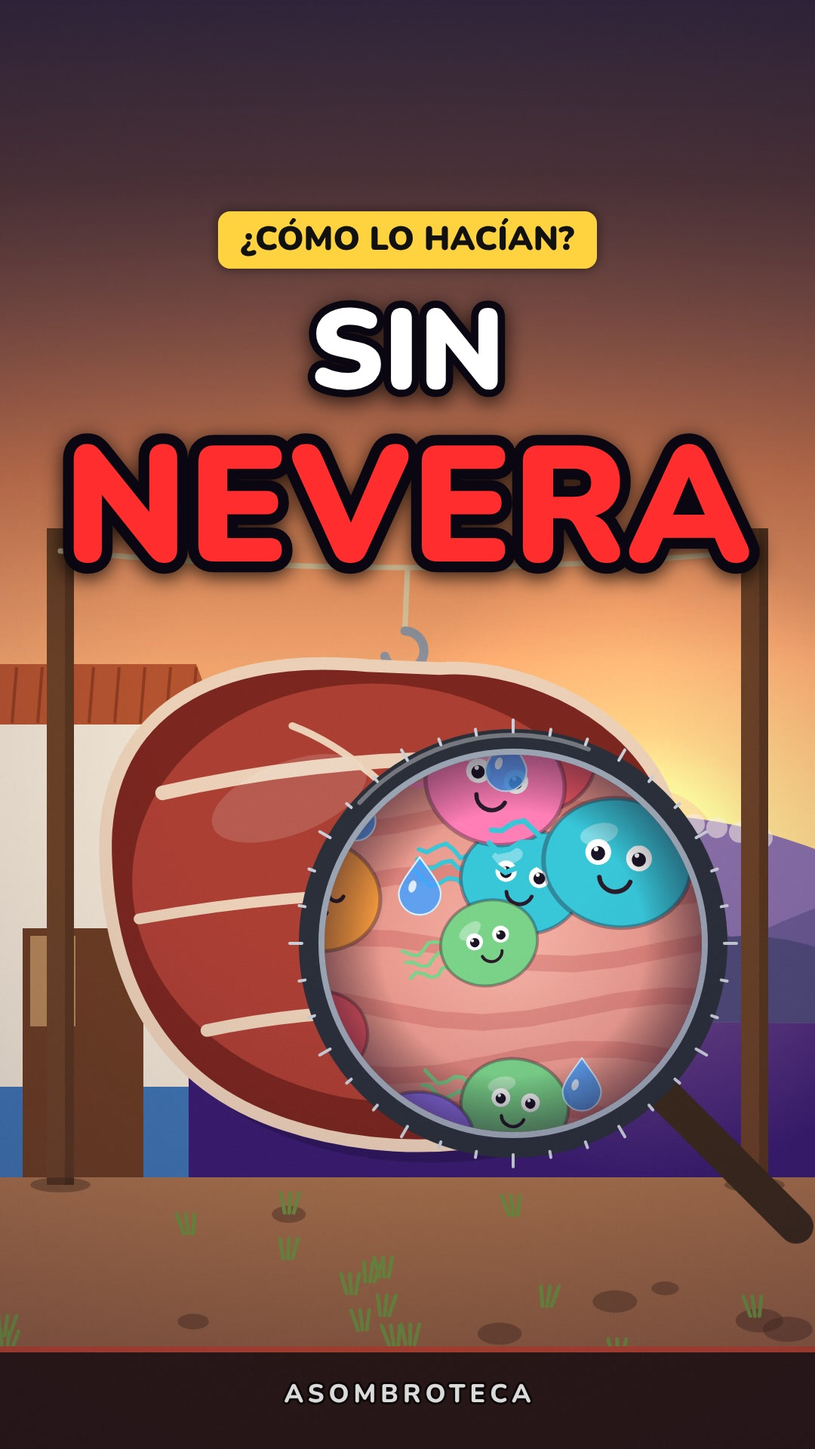
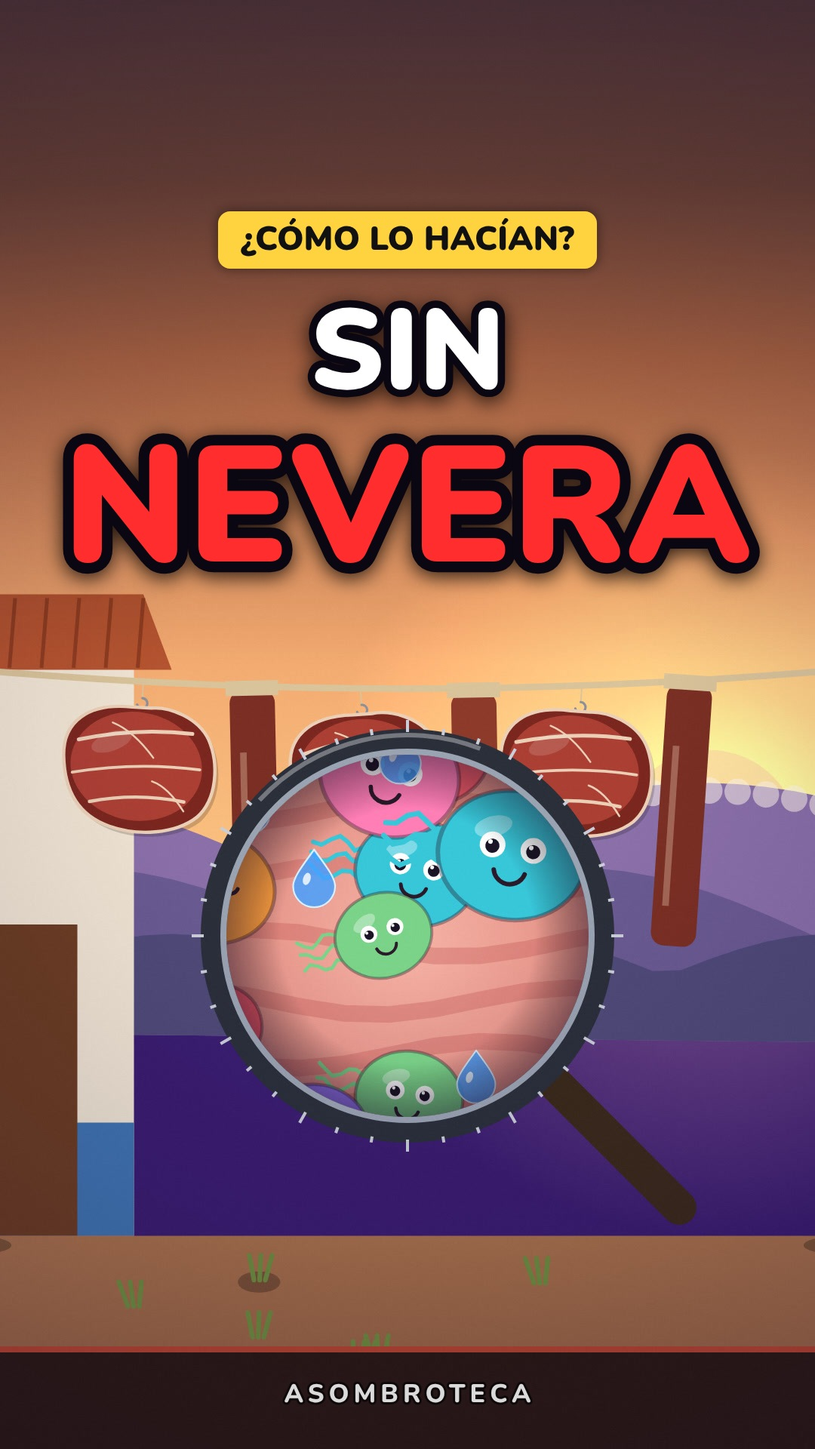
Plantilla v1.42: etiquetas suaves (-10 dB) y FX.clave para el «tin» en 3-4 momentos clave; regla en GUIA_ESTILOS. Conservar alimentos: carne colgada en pedazos y tiras, portada y hoja de prueba v2
Claude-Session: https://claude.ai/code/session_01KohciJ6VzRMYigYzWPEZPd

diff --git a/CONSERVAR_ALIMENTOS_PROYECTO/04_CODIGO/js/episodio.js b/CONSERVAR_ALIMENTOS_PROYECTO/04_CODIGO/js/episodio.js
@@ -159,14 +159,19 @@
  const capaHumo = (ctx, t, R, a) => { if (a <= 0) return; const Rg = RNG(55); ctx.save(); for (let i = 0; i < 70; i++) { const x = -R + Rg() * 2 * R, y0 = -R + Rg() * 2 * R, fall = ((t * 0.12 + Rg()) % 1), y = y0 + 60 * Math.sin(t + i), r = 10 + Rg() * 18; ctx.globalAlpha = a * (0.45 + 0.35 * Rg()); ctx.fillStyle = i % 2 ? '#8a6d55' : '#b39477'; ctx.beginPath(); ctx.arc(x + 20 * Math.sin(t * 0.8 + i), y + fall * 20, r, 0, TAU); ctx.fill(); } ctx.restore(); };
  // ---------- ÁCIDO (ondas amarillo-verdosas) ----------
  const acido = (ctx, t, x, y, a, R = 300) => { if (a <= 0) return; ctx.save(); for (let i = 0; i < 4; i++) { const ph = ((t * 0.7 + i / 4) % 1); ctx.globalAlpha = a * (1 - ph) * 0.8; ctx.strokeStyle = '#d8f25a'; ctx.lineWidth = 12; ctx.beginPath(); ctx.arc(x, y, 40 + R * ph, 0, TAU); ctx.stroke(); } ctx.restore(); };
+ // ---------- CARNE COLGADA EN LA CUERDA: pedazos medianos y tiras alternados, a tamaño creíble (v2). ry(x) = altura de la cuerda ----------
+ const CUERDA = { x0: 80, x1: 1000, y: 960, sag: 20 };
+ const ryC = (x) => { const u = (x - CUERDA.x0) / (CUERDA.x1 - CUERDA.x0); return CUERDA.y + 4 * CUERDA.sag * u * (1 - u); };
+ const PIEZAS = [[260, 'p'], [375, 't'], [490, 'p'], [610, 't'], [725, 'p'], [840, 't']];
+ const colgadas = (ctx, t, o = {}) => { const salta = o.salta ?? -1, seco = o.seco ?? 0.3; PIEZAS.forEach(([x, k], i) => { if (i === salta) return; const y = ryC(x), ang = 0.08 * Math.sin(t * 1.6 + i * 1.3) + 0.02 * Math.sin(t * 3.7 + i); if (k === 'p') carne(ctx, t, x, y, { s: 0.25, seco, ang }); else { ctx.save(); ctx.translate(x, y); ctx.rotate(ang); ctx.fillStyle = i % 4 === 1 ? '#7b2f24' : '#8e3a2b'; ctx.beginPath(); ctx.roundRect(-24, 4, 48, 300 + 25 * Math.sin(i * 2.3), 14); ctx.fill(); ctx.fillStyle = 'rgba(240,210,180,0.35)'; ctx.fillRect(-14, 70, 7, 170); ctx.fillStyle = '#d9c39a'; ctx.fillRect(-28, -6, 56, 16); ctx.restore(); } }); };
 
  // =====================================================================================================
  // ESCENAS (un plano por idea, ningún ángulo > 4 s; textos siempre encima de humo, destellos y efectos)
  // =====================================================================================================
  const B = [];
- const MC = [540, 1208];   // centro de la carne colgada en el patio
- const patio = (ctx, t, o = {}) => { cielo(ctx, t, { hz: 1300, sx: 860, sy: 1140 }); casa(ctx, t, -90, 250, 1560, { puerta: 110, top: 950 }); if (o.fogonLejos !== false) { fogon(ctx, t, 930, 1560, 0.32); humo(ctx, t, 930, 1480, { n: 8, h: 420, w: 60, r0: 14, r1: 50, a: 0.5 }); } suelo(ctx, t, 1560);
-  poste(ctx, 80, 700, 1570); poste(ctx, 1000, 700, 1570); cuerda(ctx, 80, 1000, 730, 22); if (o.carne !== false) carne(ctx, t, 540, 752, { s: o.s ?? 1.2, seco: o.seco ?? 0.3 }); };
+ const MC = [550, 1120];   // centro de la carne colgada en el patio
+ const patio = (ctx, t, o = {}) => { cielo(ctx, t, { hz: 1300, sx: 860, sy: 1140 }); casa(ctx, t, -90, 250, 1560, { puerta: 110, top: 950 }); if (o.fogonLejos !== false) { fogon(ctx, t, 900, 1560, 0.42); humo(ctx, t, 900, 1450, { n: 9, h: 520, w: 70, r0: 16, r1: 60, a: 0.55 }); } suelo(ctx, t, 1560);
+  poste(ctx, 80, 930, 1570); poste(ctx, 1000, 930, 1570); cuerda(ctx, CUERDA.x0, CUERDA.x1, CUERDA.y, CUERDA.sag); if (o.carne !== false) colgadas(ctx, t, { seco: o.seco ?? 0.3, salta: o.salta }); };
  const golpe = (k, t0, g = 1) => { k.play('thud', t0, { f: 50, gain: 0.9 * g }); k.noise(t0, { dur: 0.5, color: 'brown', filter: 'lowpass', f: [[0, 1800], [0.5, 160]], gain: 0.3 * g, a: 0.002 }); };
  const RAD = 470;   // radio del círculo del microscopio
  // bacterias repartidas (posiciones fijas por semilla) dentro de un círculo de radio R
@@ -177,10 +182,10 @@
 
  // ---------- 1 · GANCHO: el patio al atardecer, la carne grande colgada se mece; las bacterias se lanzan contra ella → en «NO» chocan y rebotan (destello, sacudida, golpe) → en «pudría» el grano de sal gigante cae a cámara ----------
  const HB = (() => { const Rg = RNG(21), out = []; for (let i = 0; i < 9; i++) { const a = (i / 9) * TAU + Rg() * 0.4; out.push({ a, r: 70 + Rg() * 30, sd: i, d0: 760 + Rg() * 200 }); } return out; })();
- const ganchoBacterias = (ctx, t, TE) => { for (const b of HB) { let d; if (t < TE) d = lerp(b.d0, 360, E.in(cl(t / TE))); else d = 360 + 520 * E.out(cl((t - TE) / 0.9)); const x = MC[0] + Math.cos(b.a) * d * 1.15, y = MC[1] + Math.sin(b.a) * d * 0.62, sp = t < TE ? 0 : (t - TE) * 9; bacteria(ctx, t, x, y, b.r, { seed: b.sd, ang: b.a + Math.PI + sp, susto: t > TE ? 1 : 0, mira: t < TE ? -Math.cos(b.a) : 0 }); } };
+ const ganchoBacterias = (ctx, t, TE) => { for (const b of HB) { let d; if (t < TE) d = lerp(b.d0, 360, E.in(cl(t / TE))); else d = 360 + 520 * E.out(cl((t - TE) / 0.9)); const x = MC[0] + Math.cos(b.a) * d * 1.1, y = MC[1] + Math.sin(b.a) * d * (Math.sin(b.a) < 0 ? 0.36 : 0.6), sp = t < TE ? 0 : (t - TE) * 9; bacteria(ctx, t, x, y, b.r, { seed: b.sd, ang: b.a + Math.PI + sp, susto: t > TE ? 1 : 0, mira: t < TE ? -Math.cos(b.a) : 0 }); } };
  B.push({ t0: 0, t1: S(2), in: { type: 'cut' }, draw(ctx, t) {
-  if (PORTADA) { patio(ctx, 1.2, { s: 1.2, fogonLejos: false }); const R = 250, cx = 680, cy = 1250; ctx.save(); ctx.strokeStyle = '#3a2a1a'; ctx.lineWidth = 46; ctx.lineCap = 'round'; ctx.beginPath(); ctx.moveTo(cx + R * 0.72, cy + R * 0.72); ctx.lineTo(cx + R * 1.5, cy + R * 1.5); ctx.stroke(); ctx.restore(); micro(ctx, 2.0, cx, cy, R, (c) => { nadan(c, 2.0, G1, 70); gotas(c, 2.0, GOT, 26); }); ctx.fillStyle = '#2a1a12'; ctx.fillRect(0, 1790, W, HH); ctx.fillStyle = '#b8452f'; ctx.fillRect(0, 1784, W, 8); return; }
-  const TE = Tk.no, TP = Tk.pudria, sh = sacude(t, [[TE, 1.3], [TP, 0.8]], 50), cam = camK(t, [[0, 540, 1100, 1.0], [S(2), 540, 1120, 1.07]]);
+  if (PORTADA) { ctx.save(); zoomP(ctx, [540, 1010, 1.25]); patio(ctx, 1.2, { fogonLejos: false }); ctx.restore(); const R = 240, cx = 540, cy = 1240; ctx.save(); ctx.strokeStyle = '#3a2a1a'; ctx.lineWidth = 46; ctx.lineCap = 'round'; ctx.beginPath(); ctx.moveTo(cx + R * 0.72, cy + R * 0.72); ctx.lineTo(cx + R * 1.5, cy + R * 1.5); ctx.stroke(); ctx.restore(); micro(ctx, 2.0, cx, cy, R, (c) => { nadan(c, 2.0, G1, 70); gotas(c, 2.0, GOT, 26); }); ctx.fillStyle = '#2a1a12'; ctx.fillRect(0, 1790, W, HH); ctx.fillStyle = '#b8452f'; ctx.fillRect(0, 1784, W, 8); return; }
+  const TE = Tk.no, TP = Tk.pudria, sh = sacude(t, [[TE, 1.3], [TP, 0.8]], 50), cam = camK(t, [[0, 540, 1160, 1.05], [S(2), 540, 1170, 1.1]]);
   ctx.save(); zoomP(ctx, cam, sh); patio(ctx, t); if (t > TE - 0.05 && t < TE + 0.5) P.glow(ctx, MC[0], MC[1], 520, '255,255,230', 0.9 * (1 - sm(TE, TE + 0.5, t))); ganchoBacterias(ctx, t, TE); ctx.restore();
   // el grano de sal cae a cámara
   if (t > TE) { const u = sm(TE, TP, t), sc = lerp(0.5, 7.2, E.in(u)) * (1 + 0.6 * sm(TP + 0.15, TP + 0.6, t)), a = 1 - sm(TP + 0.25, TP + 0.65, t); cristal(ctx, 540 + sh[0], lerp(420, 960, E.out(u)) + sh[1], sc, 0.6 + 1.2 * u, a); }
@@ -199,7 +204,7 @@
 
  // ---------- 3 · El secreto es el mismo en todas las técnicas. → la cámara se acerca a la carne y se abre el círculo del microscopio → dentro, las bacterias y las gotitas; la cámara gira ----------
  B.push({ t0: S(3), t1: S(4), in: { type: 'cut' }, draw(ctx, t) {
-  const tb = S(3) + 0.25, R = RAD * E.out(sm(tb, tb + 0.9, t)), cam = camK(t, [[S(3), 540, 1150, 1.3], [tb + 0.9, 540, 1200, 1.9]]);
+  const tb = S(3) + 0.25, R = RAD * E.out(sm(tb, tb + 0.9, t)), cam = camK(t, [[S(3), 520, 1110, 1.4], [tb + 0.9, 490, 1075, 2.6]]);
   if (R < RAD - 1) { ctx.save(); zoomP(ctx, cam); patio(ctx, t); ctx.restore(); }
   else fondoMicro(ctx);
   if (R > 2) micro(ctx, t, 540, 980, R, (c) => { gotas(c, t, GOT, 30); nadan(c, t, G1, 64); }, { giro: 0.25 * sm(S(3) + 1.6, S(4), t), zoom: lerp(1, 1.25, sm(S(3) + 1.6, S(4), t)) });
@@ -232,7 +237,7 @@
  // ---------- 6 · Cada truco de la abuela les arruina la fiesta. → en el patio la abuela cuelga la carne y el niño la ayuda → en «arruina» la fiesta del microscopio se apaga: se caen los gorros ----------
  B.push({ t0: S(8), t1: S(9), in: { type: 'cut' }, draw(ctx, t) {
   const tb = Tk.arruina - 0.1;
-  if (t < tb) { const cam = camK(t, [[S(8), 560, 1130, 1.0], [tb, 540, 1110, 1.06]]), lev = Math.sin((t - S(8)) * 2.5); ctx.save(); zoomP(ctx, cam); patio(ctx, t, { carne: false }); carne(ctx, t, 430, 752, { s: 0.95, seco: 0.35 }); persona(ctx, t, 760, 1570, 1.15, { abuela: true, ropa: '#7a4f9a', sonrie: 0.8, brazoI: [-150, -700 + 20 * lev], brazoD: [-60, -690 - 20 * lev], seed: 2, mira: -1 }); persona(ctx, t, 230, 1570, 0.7, { ropa: '#f2b632', sonrie: 1, salto: 0.2 * Math.max(0, Math.sin((t - S(8)) * 7)), brazoD: [110, -620], seed: 5, pelo: '#3b2414', mira: 1 }); ctx.restore(); }
+  if (t < tb) { const cam = camK(t, [[S(8), 560, 1130, 1.0], [tb, 540, 1110, 1.06]]), lev = Math.sin((t - S(8)) * 2.5); ctx.save(); zoomP(ctx, cam); patio(ctx, t, { salta: 4 }); persona(ctx, t, 925, 1570, 1.05, { abuela: true, ropa: '#7a4f9a', sonrie: 0.8, brazoI: [-90, -560 + 14 * lev], brazoD: [-50, -570 - 14 * lev], seed: 2, mira: -1 }); persona(ctx, t, 230, 1570, 0.7, { ropa: '#f2b632', sonrie: 1, salto: 0.2 * Math.max(0, Math.sin((t - S(8)) * 7)), brazoD: [110, -620], seed: 5, pelo: '#3b2414', mira: 1 }); ctx.restore(); }
   else { const u = sm(tb, tb + 0.5, t); fondoMicro(ctx); micro(ctx, t, 540, 980, RAD, (c) => { luces(c, t, RAD, 1 - u); c.fillStyle = `rgba(10,10,30,${0.45 * u})`; c.fillRect(-RAD * 2, -RAD * 2, RAD * 4, RAD * 4); for (const b of G1) { bacteria(c, t, b.x, b.y + 20 * u, 66 * b.r, { seed: b.sd, susto: u, gorro: false, mira: Math.sin(t * 5 + b.ph) }); const gy = lerp(b.y - 66 * b.r, b.y + 260, E.in(u)); c.save(); c.globalAlpha = 1 - sm(tb + 0.5, tb + 1, t); c.translate(b.x + 30 * u, gy); c.rotate(2 * u + b.ph); c.fillStyle = YE; c.beginPath(); c.moveTo(-20, 0); c.lineTo(0, -52); c.lineTo(20, 0); c.closePath(); c.fill(); c.restore(); } }, { zoom: 1.08 }); }
  }, sfx(k) { k.noise(S(8), { dur: Tk.arruina - S(8), color: 'pink', filter: 'lowpass', f: 900, gain: 0.05, a: 0.2 }); k.tone(Tk.arruina - 0.1, { f: [[0, 600], [0.5, 90]], type: 'sawtooth', dur: 0.55, gain: 0.08, filter: 'lowpass', f2: 1500 }); k.play('error', Tk.arruina, { gain: 0.25 }); } });
 
@@ -246,7 +251,7 @@
    if (typeof window !== 'undefined' && window.MANOS_IMG) P.manoImg(ctx, 'pinza', 640 + 10 * Math.sin(t * 9), 520 + 8 * Math.sin(t * 7), 360, { ancla: 'centro', ang: 2.6 }); ctx.restore(); TAG(ctx, '1 · LA SAL', 470, 520, t, Tk.sal - 0.2, t1 + 0.25, { mono: true, col: '#ffffff', px: 66 }); }
   else if (t < t2) { const u = sm(Tk.arrugan - 0.4, t2, t); fondoMicro(ctx); micro(ctx, t, 540, 980, RAD, (c) => { for (let i = 0; i < 6; i++) { const a = i * TAU / 6 + 0.3; cristal(c, Math.cos(a) * 330, Math.sin(a) * 330, 1.1, a, 1); } bacteria(c, t, 0, 0, 170, { seed: 2, arruga: u, susto: u }); for (let i = 0; i < 6; i++) { const a = i * TAU / 6 + 0.3, ph = ((t * 0.7 + i / 6) % 1), d = lerp(140, 300, ph); gota(c, t, Math.cos(a) * d, Math.sin(a) * d, 26 * (1 - ph * 0.5), 1 - ph); } }, { zoom: lerp(1.25, 1.1, sm(t1, t2, t)), giro: 0.2 * sm(t1, t2, t) }); TAG(ctx, 'LES SACA EL AGUA', 470, 520, t, t1, Tk.arrugan - 0.25, { mono: true, col: AZ, px: 56 }); TAG(ctx, 'SE ARRUGAN', 470, 520, t, Tk.arrugan - 0.2, t2 + 0.25, { mono: true, col: '#ffffff', px: 60 }); }
   else { fondoMicro(ctx); const sh = sacude(t, [[Tk.pasas, 0.5]], 26); micro(ctx, t, 540 + sh[0], 980 + sh[1], RAD, (c) => { const Rg = RNG(14); for (let i = 0; i < 18; i++) cristal(c, (Rg() - 0.5) * 820, (Rg() - 0.5) * 820, 0.5, Rg() * 6, 1); nadan(c, t, G2.slice(0, 9), 70, { arruga: 1, susto: 0.6 }); }, { giro: -0.2 * sm(t2, S(10), t), zoom: 0.95 }); TAG(ctx, 'COMO PASAS', 470, 520, t, Tk.pasas + 0.05, S(10), { mono: true, col: '#c08a5a', px: 60 }); }
- }, sfx(k) { FX.etiqueta(k, Tk.sal - 0.2); for (let x = S(9) + 0.1; x < Tk.saca + 0.4; x += 0.06) k.noise(x, { dur: 0.03, filter: 'highpass', f: 5000, gain: 0.06, a: 0.001 }); FX.etiqueta(k, Tk.saca + 0.4); k.tone(Tk.arrugan - 0.4, { f: [[0, 500], [1.2, 150]], type: 'sine', dur: 1.3, gain: 0.08 }); FX.etiqueta(k, Tk.arrugan - 0.2); golpe(k, Tk.pasas, 0.5); FX.etiqueta(k, Tk.pasas - 0.2); } });
+ }, sfx(k) { FX.clave(k, Tk.sal - 0.2); for (let x = S(9) + 0.1; x < Tk.saca + 0.4; x += 0.06) k.noise(x, { dur: 0.03, filter: 'highpass', f: 5000, gain: 0.06, a: 0.001 }); FX.etiqueta(k, Tk.saca + 0.4); k.tone(Tk.arrugan - 0.4, { f: [[0, 500], [1.2, 150]], type: 'sine', dur: 1.3, gain: 0.08 }); FX.etiqueta(k, Tk.arrugan - 0.2); golpe(k, Tk.pasas, 0.5); FX.etiqueta(k, Tk.pasas - 0.2); } });
 
  // ---------- 8 · EL SOL Y EL VIENTO secan la carne, como el CHARQUI de los Andes. Sin agua, no hay fiesta. → sol grande y tiras de carne que se mecen con el viento → los Andes con el charqui colgado → al microscopio las gotitas se evaporan ----------
  B.push({ t0: S(10), t1: S(12), in: { type: 'cut' }, draw(ctx, t) {
@@ -255,7 +260,7 @@
   else if (t < t2) { const cam = camK(t, [[t1, 540, 1080, 1.3], [t2, 560, 1100, 1.18]]); ctx.save(); zoomP(ctx, cam); cielo(ctx, t, { hz: 1350, sx: 300, sy: 1000 }); ctx.fillStyle = '#5b4f86'; ctx.beginPath(); ctx.moveTo(-300, 1360); ctx.lineTo(120, 760); ctx.lineTo(380, 1080); ctx.lineTo(620, 700); ctx.lineTo(960, 1120); ctx.lineTo(1300, 860); ctx.lineTo(1400, 1360); ctx.closePath(); ctx.fill(); ctx.fillStyle = '#f4f1ff'; for (const [x, y] of [[120, 760], [620, 700], [1300, 860]]) { ctx.beginPath(); ctx.moveTo(x - 70, y + 90); ctx.lineTo(x, y); ctx.lineTo(x + 70, y + 90); ctx.lineTo(x + 25, y + 70); ctx.lineTo(x, y + 95); ctx.lineTo(x - 25, y + 70); ctx.closePath(); ctx.fill(); }
    ctx.fillStyle = '#7f8a4a'; ctx.fillRect(-300, 1340, W + 600, 600); suelo(ctx, t, 1460); poste(ctx, 100, 900, 1470); poste(ctx, 980, 900, 1470); cuerda(ctx, 100, 980, 920, 30); tiras(ctx, t, 100, 980, 920, 11, { L: 480, sag: 30, viento: 1.5 }); ctx.restore(); viento(ctx, t, 0.7, 800, 1300); TAG(ctx, 'CHARQUI', 470, 520, t, Tk.charqui - 0.25, t2, { mono: true, col: NAR, px: 70 }); }
   else { const u = sm(S(11), Tk.fiesta3, t); fondoMicro(ctx); micro(ctx, t, 540, 980, RAD, (c) => { P.glow(c, 0, -RAD, RAD * 1.4, '255,210,120', 0.35); for (const d of GOT) { const k2 = 1 - u, x = d.x, y = d.y - 60 * u; gota(c, t, x, y, 30 * d.r * k2, k2); c.save(); c.globalAlpha = 0.6 * u * (1 - u * 0.5); c.strokeStyle = '#ffffff'; c.lineWidth = 6; c.beginPath(); c.moveTo(x, y - 20); c.bezierCurveTo(x - 20, y - 60, x + 20, y - 90, x, y - 130); c.stroke(); c.restore(); } nadan(c, t, G1, 62, { arruga: 0.5 * u, susto: t > Tk.fiesta3 ? 1 : 0, gorro: t < Tk.fiesta3 }); }, { seco: 1, zoom: lerp(1.1, 1.0, u), giro: 0.15 * u }); TAG(ctx, 'SIN AGUA', 470, 520, t, Tk.sinAgua - 0.2, S(12), { mono: true, col: AZ, px: 66 }); }
- }, sfx(k) { FX.etiqueta(k, Tk.sol - 0.2); k.noise(S(10), { dur: S(11) - S(10), filter: 'bandpass', f: [[0, 500], [1.5, 900], [3, 500]], q: 0.7, gain: 0.12, a: 0.3 }); FX.etiqueta(k, Tk.charqui - 0.25); k.play('whoosh', Tk.charqui - 0.55, { dur: 0.5, top: 1400, gain: 0.2, minor: true }); FX.etiqueta(k, Tk.sinAgua - 0.2); k.tone(S(11), { f: [[0, 900], [1, 1600]], type: 'sine', dur: 1.1, gain: 0.04 }); k.play('error', Tk.fiesta3, { gain: 0.2 }); } });
+ }, sfx(k) { FX.clave(k, Tk.sol - 0.2); k.noise(S(10), { dur: S(11) - S(10), filter: 'bandpass', f: [[0, 500], [1.5, 900], [3, 500]], q: 0.7, gain: 0.12, a: 0.3 }); FX.etiqueta(k, Tk.charqui - 0.25); k.play('whoosh', Tk.charqui - 0.55, { dur: 0.5, top: 1400, gain: 0.2, minor: true }); FX.etiqueta(k, Tk.sinAgua - 0.2); k.tone(S(11), { f: [[0, 900], [1, 1600]], type: 'sine', dur: 1.1, gain: 0.04 }); k.play('error', Tk.fiesta3, { gain: 0.2 }); } });
 
  // ---------- 9 · EL HUMO del fogón la seca… y la cubre con sustancias que los FRENAN. → el fogón de leña con la carne encima; la abuela aviva el fuego → al microscopio el humo cubre la carne → las bacterias se frenan y se duermen ----------
  B.push({ t0: S(12), t1: S(14), in: { type: 'cut' }, draw(ctx, t) {
@@ -265,7 +270,7 @@
    const av = Math.sin((t - S(12)) * 9); persona(ctx, t, 150, 1490, 0.95, { abuela: true, ropa: '#7a4f9a', sonrie: 0.4, brazoD: [190 + 20 * av, -330], brazoI: [120, -380], seed: 3, mira: 1 }); ctx.save(); ctx.translate(150 + 0.95 * (190 + 20 * av), 1490 + 0.95 * -330); ctx.rotate(0.8 + 0.4 * av); ctx.fillStyle = '#c9a25c'; ctx.beginPath(); ctx.ellipse(40, 0, 60, 34, 0, 0, TAU); ctx.fill(); ctx.restore(); ctx.restore(); TAG(ctx, '3 · EL HUMO', 470, 520, t, Tk.humo - 0.2, t1, { mono: true, col: '#d9d2c8', px: 64 }); }
   else if (t < t2) { const u = sm(t1, t2, t); fondoMicro(ctx); micro(ctx, t, 540, 980, RAD, (c) => { nadan(c, t, G1, 64, { sueno: 0 }); capaHumo(c, t, RAD, u); }, { seco: 1, zoom: lerp(1.3, 1.15, u) }); TAG(ctx, 'LA CUBRE', 470, 520, t, Tk.cubre - 0.2, t2, { mono: true, col: '#d9d2c8', px: 60 }); }
   else { const u = sm(t2, Tk.frenan + 0.2, t); fondoMicro(ctx); micro(ctx, t, 540, 980, RAD, (c) => { for (const b of G1) { const vel = 1 - 0.85 * u, x = b.x + 30 * Math.sin(t * 0.9 * vel + b.ph), y = b.y + 24 * Math.cos(t * 1.1 * vel + b.ph); bacteria(c, t, x, y, 64 * b.r, { seed: b.sd, sueno: u }); } capaHumo(c, t, RAD, 1); }, { seco: 1, giro: -0.25 * sm(t2, S(14), t), zoom: 1.0 }); TAG(ctx, 'LOS FRENA', 470, 520, t, Tk.frenan - 0.2, S(14), { mono: true, col: CY, px: 64 }); }
- }, sfx(k) { FX.etiqueta(k, Tk.humo - 0.2); k.noise(S(12), { dur: S(13) - S(12), color: 'brown', filter: 'bandpass', f: 700, q: 0.5, gain: 0.12, a: 0.1 }); for (let x = S(12); x < S(13); x += 0.13) k.noise(x, { dur: 0.02, filter: 'highpass', f: 2500, gain: 0.05 * (0.5 + 0.5 * Math.sin(x * 37)), a: 0.001 }); FX.etiqueta(k, Tk.cubre - 0.2); k.noise(S(13), { dur: 1.2, filter: 'lowpass', f: 600, gain: 0.07, a: 0.3 }); k.tone(Tk.frenan - 0.4, { f: [[0, 400], [1, 120]], type: 'triangle', dur: 1.2, gain: 0.07 }); FX.etiqueta(k, Tk.frenan - 0.2); } });
+ }, sfx(k) { FX.clave(k, Tk.humo - 0.2); k.noise(S(12), { dur: S(13) - S(12), color: 'brown', filter: 'bandpass', f: 700, q: 0.5, gain: 0.12, a: 0.1 }); for (let x = S(12); x < S(13); x += 0.13) k.noise(x, { dur: 0.02, filter: 'highpass', f: 2500, gain: 0.05 * (0.5 + 0.5 * Math.sin(x * 37)), a: 0.001 }); FX.etiqueta(k, Tk.cubre - 0.2); k.noise(S(13), { dur: 1.2, filter: 'lowpass', f: 600, gain: 0.07, a: 0.3 }); k.tone(Tk.frenan - 0.4, { f: [[0, 400], [1, 120]], type: 'triangle', dur: 1.2, gain: 0.07 }); FX.etiqueta(k, Tk.frenan - 0.2); } });
 
  // ---------- 10 · Y la FERMENTACIÓN invita a microbios BUENOS, que lo llenan todo de ÁCIDO… y los malos no CABEN. → la vasija de barro con burbujas y el niño que se asoma → al microscopio llegan los buenos (verdes) y sueltan ácido → los buenos llenan todo y echan a los malos ----------
  const BUENOS = grupo(22, 400, 91);
@@ -275,13 +280,13 @@
    mesa(ctx, 60, 1020, 1520, { patas: 400 }); vasija(ctx, t, 540, 1486, 0.95); persona(ctx, t, 930, 1700, 0.75, { ropa: '#f2b632', miedo: 0.45, mira: -1, seed: 6, pelo: '#3b2414', brazoI: [-120, -560] }); ctx.restore(); TAG(ctx, '4 · FERMENTACIÓN', 470, 520, t, Tk.fermentacion - 0.2, t1, { mono: true, col: GR, px: 58 }); }
   else if (t < t2) { const u = sm(t1, Tk.buenos + 0.3, t), sh = sacude(t, [[Tk.acido, 0.6]], 26); fondoMicro(ctx); micro(ctx, t, 540 + sh[0], 980 + sh[1], RAD, (c) => { nadan(c, t, G1.slice(0, 5), 62, { susto: t > Tk.acido ? 0.8 : 0 }); for (const b of BUENOS.slice(0, 7)) { const x = lerp(b.x * 2.6, b.x, E.out(u)), y = lerp(b.y * 2.6, b.y, E.out(u)); bacteria(c, t, x, y, 60, { bueno: true, seed: b.sd }); if (t > Tk.acido - 0.3) acido(c, t, x, y, sm(Tk.acido - 0.3, Tk.acido, t), 160); } if (t > Tk.acido) { c.fillStyle = `rgba(216,242,90,${0.18 * sm(Tk.acido, Tk.acido + 0.4, t)})`; c.fillRect(-RAD * 2, -RAD * 2, RAD * 4, RAD * 4); } }, { giro: 0.2 * sm(t1, t2, t), zoom: 1.05 }); fogonazo(ctx, t, [[Tk.acido, 0.35]]); TAG(ctx, 'MICROBIOS BUENOS', 470, 520, t, Tk.buenos - 0.3, Tk.acido - 0.35, { mono: true, col: GR, px: 54 }); TAG(ctx, 'ÁCIDO', 470, 520, t, Tk.acido - 0.2, t2, { mono: true, col: '#d8f25a', px: 70 }); }
   else { const u = sm(t2, Tk.caben, t); fondoMicro(ctx); micro(ctx, t, 540, 980, RAD, (c) => { c.fillStyle = 'rgba(216,242,90,0.18)'; c.fillRect(-RAD * 2, -RAD * 2, RAD * 4, RAD * 4); for (const b of BUENOS) { const k2 = sm(t2, t2 + 0.8, t); bacteria(c, t, b.x * lerp(1.6, 1, k2), b.y * lerp(1.6, 1, k2), 56, { bueno: true, seed: b.sd }); } for (let i = 0; i < 4; i++) { const a = i * TAU / 4 + 0.6, d = lerp(120, 640, E.in(u)); bacteria(c, t, Math.cos(a) * d, Math.sin(a) * d, 58, { seed: i, susto: 1, ang: u * 6 }); } }, { zoom: lerp(1.15, 0.95, sm(t2, S(16), t)) }); TAG(ctx, 'LOS MALOS NO CABEN', 470, 520, t, Tk.malos - 0.2, S(16), { mono: true, col: RD, px: 52 }); }
- }, sfx(k) { FX.etiqueta(k, Tk.fermentacion - 0.2); for (let x = S(14); x < Tk.buenos - 0.55; x += 0.17) k.play('blip', x, { f: 300 + 200 * Math.abs(Math.sin(x * 7)), gain: 0.07, minor: true }); FX.etiqueta(k, Tk.buenos - 0.3); k.play('sparkle', Tk.buenos - 0.2, { gain: 0.25 }); golpe(k, Tk.acido, 0.5); k.tone(Tk.acido, { f: [[0, 700], [0.5, 1100]], type: 'square', dur: 0.4, gain: 0.04, filter: 'lowpass', f2: 2500 }); FX.etiqueta(k, Tk.acido - 0.2); FX.etiqueta(k, Tk.malos - 0.2); for (let i = 0; i < 4; i++) k.play('pop', Tk.caben + i * 0.06, { f: 400 + i * 120, gain: 0.25 }); } });
+ }, sfx(k) { FX.clave(k, Tk.fermentacion - 0.2); for (let x = S(14); x < Tk.buenos - 0.55; x += 0.17) k.play('blip', x, { f: 300 + 200 * Math.abs(Math.sin(x * 7)), gain: 0.07, minor: true }); FX.etiqueta(k, Tk.buenos - 0.3); k.play('sparkle', Tk.buenos - 0.2, { gain: 0.25 }); golpe(k, Tk.acido, 0.5); k.tone(Tk.acido, { f: [[0, 700], [0.5, 1100]], type: 'square', dur: 0.4, gain: 0.04, filter: 'lowpass', f2: 2500 }); FX.etiqueta(k, Tk.acido - 0.2); FX.etiqueta(k, Tk.malos - 0.2); for (let i = 0; i < 4; i++) k.play('pop', Tk.caben + i * 0.06, { f: 400 + i * 120, gain: 0.25 }); } });
 
  // ---------- 11 · ¿El secreto? [pausa larga] → una bacteria sola bajo el foco, mirando a todos lados → No era magia: → la abuela niega con la cabeza y sonríe → les quitaban a los bichos lo que necesitan para MULTIPLICARSE → al microscopio la bacteria intenta dividirse… y no puede ----------
  B.push({ t0: S(16), t1: S(19), in: { type: 'cut' }, draw(ctx, t) {
   const t1 = S(17) - 0.05, t2 = S(18) - 0.05, t3 = Tk.necesitan2 - 0.1, TM = Tk.multiplicarse;
   if (t < t1) { const u = sm(S(16), t1, t); fondoMicro(ctx); micro(ctx, t, 540, 980, RAD, (c) => { c.fillStyle = 'rgba(10,8,25,0.55)'; c.fillRect(-RAD * 2, -RAD * 2, RAD * 4, RAD * 4); P.glow(c, 0, 0, 300, '255,250,220', 0.6); bacteria(c, t, 0, 0, 150, { seed: 1, mira: Math.sin(t * 2.2) }); P.qmark && P.qmark(c, 150, -220, 90, t); }, { zoom: lerp(1.0, 1.35, E.inOut(u)) }); }
-  else if (t < t2) { const cam = camK(t, [[t1, 540, 1070, 1.6], [t2, 540, 1050, 1.7]]), no = Math.sin((t - t1) * 12) * 0.12 * (1 - sm(t1 + 0.6, t2, t)); ctx.save(); zoomP(ctx, cam); patio(ctx, t, { carne: false }); carne(ctx, t, 300, 752, { s: 0.85 }); ctx.save(); ctx.translate(560, 1570); ctx.rotate(no * 0.15); ctx.translate(-560, -1570); persona(ctx, t, 560, 1570, 1.15, { abuela: true, ropa: '#7a4f9a', sonrie: 1, seed: 2, incl: no, brazoD: [120, -330], brazoI: [-90, -300] }); ctx.restore(); ctx.restore(); TAG(ctx, 'NO ERA MAGIA', 470, 520, t, Tk.magia - 0.3, t2, { mono: true, col: YE, px: 60 }); }
+  else if (t < t2) { const cam = camK(t, [[t1, 540, 1070, 1.6], [t2, 540, 1050, 1.7]]), no = Math.sin((t - t1) * 12) * 0.12 * (1 - sm(t1 + 0.6, t2, t)); ctx.save(); zoomP(ctx, cam); patio(ctx, t); ctx.save(); ctx.translate(560, 1570); ctx.rotate(no * 0.15); ctx.translate(-560, -1570); persona(ctx, t, 560, 1570, 1.15, { abuela: true, ropa: '#7a4f9a', sonrie: 1, seed: 2, incl: no, brazoD: [120, -330], brazoI: [-90, -300] }); ctx.restore(); ctx.restore(); TAG(ctx, 'NO ERA MAGIA', 470, 520, t, Tk.magia - 0.3, t2, { mono: true, col: YE, px: 60 }); }
   else if (t < t3) { const u = sm(t2, t3, t); fondoMicro(ctx); micro(ctx, t, 540, 980, RAD, (c) => { const ic = [[-300, -260], [300, -260], [-300, 260], [300, 260]]; cristal(c, ic[0][0], ic[0][1], 0.9, 0.3, 1); P.glow(c, ic[1][0], ic[1][1], 120, '255,210,90', 0.9); c.fillStyle = '#ffd447'; c.beginPath(); c.arc(ic[1][0], ic[1][1], 60, 0, TAU); c.fill(); humo(c, t, ic[2][0], ic[2][1] + 60, { n: 6, h: 140, w: 40, r0: 18, r1: 40, a: 0.8 }); bacteria(c, t, ic[3][0], ic[3][1], 54, { bueno: true, seed: 3 });
     for (let i = 0; i < 6; i++) { const a = i * TAU / 6, d = lerp(110, 520, E.in(u)); gota(c, t, Math.cos(a) * d, Math.sin(a) * d, 30, 1 - u * 0.6); } bacteria(c, t, 0, 0, 120, { seed: 1, susto: u }); }, { giro: 0.2 * u }); TAG(ctx, 'LES QUITABAN LO QUE NECESITAN', 470, 520, t, Tk.quitaban - 0.2, t3, { mono: true, col: '#ffffff', px: 40 }); }
   else { const sh = sacude(t, [[TM, 1.6]], 60), est = t < TM ? 0.42 * Math.abs(Math.sin((t - t3) * 4.2)) * sm(t3, t3 + 0.3, t) : 0.42 * (1 - E.out(sm(TM, TM + 0.2, t))); fondoMicro(ctx); micro(ctx, t, 540 + sh[0], 980 + sh[1], RAD, (c) => { gotas(c, t, GOT.slice(0, 4), 22, 0.5); bacteria(c, t, 0, 0, 210, { seed: 1, div: est, col: '#9b7bff', susto: t > TM ? 1 : 0.3 }); if (t > TM) { const a = sm(TM, TM + 0.12, t); c.save(); c.strokeStyle = 'rgba(255,255,255,0.9)'; c.lineWidth = 96; c.lineCap = 'round'; const q = 300 * E.out(a); c.beginPath(); c.moveTo(-q, -q); c.lineTo(q, q); c.moveTo(q, -q); c.lineTo(-q, q); c.stroke(); c.strokeStyle = '#ff2a3d'; c.lineWidth = 70; c.stroke(); c.restore(); } }, { zoom: 1.0 }); if (t > TM && t < TM + 0.35) P.glow(ctx, 540, 980, 600, '255,60,60', 0.5 * (1 - sm(TM, TM + 0.35, t))); TAG(ctx, 'NO SE MULTIPLICAN', 470, 520, t, TM - 0.15, S(19), { mono: true, col: RD, px: 58 }); }
@@ -290,9 +295,9 @@
  // ---------- 12 · Por eso la carne de tu abuela colgaba al sol… y no se pudría. → volvemos al patio del gancho: la carne se mece → FINAL en primer plano: la abuela sonríe frente a la carne colgada y el niño la abraza; en «no» las bacterias rebotan ----------
  B.push({ t0: S(19), t1: S(21), in: { type: 'cut' }, draw(ctx, t) {
   const tb = Tk.carne4 + 0.9, TE = Tk.no4;
-  if (t < tb) { const cam = camK(t, [[S(19), 540, 1100, 1.0], [tb, 540, 1120, 1.06]]); ctx.save(); zoomP(ctx, cam); patio(ctx, t, { seco: 0.5 }); ctx.restore(); }
-  else { const cam = camK(t, [[tb, 540, 1150, 1.2], [S(21), 540, 1170, 1.32]]), sh = sacude(t, [[TE, 0.7]], 26); ctx.save(); zoomP(ctx, cam, sh); patio(ctx, t, { carne: false, fogonLejos: false }); carne(ctx, t, 540, 752, { s: 1.15, seco: 0.55 });
-   for (const b of HB.slice(0, 6)) { let d; if (t < TE) d = lerp(560, 330, E.in(sm(tb, TE, t))); else d = 330 + 450 * E.out(cl((t - TE) / 0.8)); bacteria(ctx, t, MC[0] + Math.cos(b.a) * d, MC[1] - 120 + Math.sin(b.a) * d * 0.8, 50, { seed: b.sd, susto: t > TE ? 1 : 0, ang: t > TE ? (t - TE) * 8 : 0 }); }
+  if (t < tb) { const cam = camK(t, [[S(19), 540, 1210, 1.12], [tb, 540, 1220, 1.16]]); ctx.save(); zoomP(ctx, cam); patio(ctx, t, { seco: 0.5 }); ctx.restore(); }
+  else { const cam = camK(t, [[tb, 540, 1290, 1.2], [S(21), 540, 1300, 1.3]]), sh = sacude(t, [[TE, 0.7]], 26); ctx.save(); zoomP(ctx, cam, sh); patio(ctx, t, { seco: 0.55 });
+   for (const b of HB.slice(0, 6)) { let d; if (t < TE) d = lerp(600, 360, E.in(sm(tb, TE, t))); else d = 360 + 450 * E.out(cl((t - TE) / 0.8)); bacteria(ctx, t, MC[0] + Math.cos(b.a) * d, MC[1] - 40 + Math.sin(b.a) * d * 0.5, 46, { seed: b.sd, susto: t > TE ? 1 : 0, ang: t > TE ? (t - TE) * 8 : 0 }); }
    if (t > TE && t < TE + 0.4) P.glow(ctx, MC[0], MC[1], 420, '255,255,230', 0.7 * (1 - sm(TE, TE + 0.4, t)));
    persona(ctx, t, 430, 1720, 1.25, { abuela: true, ropa: '#7a4f9a', sonrie: 1, seed: 2, brazoD: [150, -330], brazoI: [-110, -300] }); persona(ctx, t, 690, 1720, 0.8, { ropa: '#f2b632', sonrie: 1, seed: 6, pelo: '#3b2414', brazoI: [-170, -380], salto: 0.12 * Math.max(0, Math.sin((t - tb) * 6)) }); ctx.restore(); }
  }, sfx(k) { k.play('whoosh', Tk.carne4 + 0.9, { dur: 0.5, top: 1200, gain: 0.2, minor: true }); golpe(k, Tk.no4, 0.7); k.play('pop', Tk.no4 + 0.05, { f: 320, gain: 0.3 }); k.tone(Tk.pudria4, { f: 'C5', dur: 1.2, gain: 0.05, verb: 0.5 }); k.tone(Tk.pudria4 + 0.12, { f: 'E5', dur: 1.2, gain: 0.04, verb: 0.5 }); } });
@@ -308,6 +313,7 @@
  // ---------- MONTAJE ----------
  const EP = PL.make({
   estilo: 'cartoon', capBorde: true, marca: { nombre: 'ASOMBROTECA' }, align: A, duration: DURATION, beats: B,
+  etiquetas: 'suave',   // v1.42: etiquetas a −10 dB; el «tin» (FX.clave) solo en los 4 pasos: sal, sol y viento, humo, fermentación
   keywords: [],
   ambience(k) { k.noise(0, { dur: DURATION, color: 'brown', filter: 'lowpass', f: 400, gain: 0.02, a: 0.05, hold: DURATION - 2.5 }); },
   music(k) { MUS.piano(k, 0, S(16), { bpm: 76, gain: 0.7, strings: 0.6, chords: [['A2', 'C3', 'E3', 'A3'], ['F2', 'A2', 'C3', 'F3'], ['C3', 'E3', 'G3', 'C4'], ['G2', 'B2', 'D3', 'G3']] }); MUS.piano(k, S(17), DURATION, { bpm: 72, gain: 0.75, strings: 0.8, chords: [['C3', 'E3', 'G3', 'C4'], ['G2', 'B2', 'D3', 'G3'], ['A2', 'C3', 'E3', 'A3'], ['F2', 'A2', 'C3', 'F3']] }); },

diff --git a/PLANTILLA_ASOMBROTECA/motor/plantilla.js b/PLANTILLA_ASOMBROTECA/motor/plantilla.js
@@ -5617,6 +5617,7 @@ P._limpiarFijos = () => { for (const k of Object.keys(FIJOS)) delete FIJOS[k]; }
  // cfg = { skin, align, duration, beats:[{t0,t1,in:{type,d,x,y}, draw(ctx,t,api), sfx(k,api)}], keywords, music(k,api), capY }
  function make(cfg) {
   if (cfg.estilo && ESTILOS[cfg.estilo]) cfg = { ...ESTILOS[cfg.estilo], ...cfg };
+  SND_ETQ = cfg.etiquetas === 'suave' || cfg.etiquetas === 'silencio' ? cfg.etiquetas : 'clasico';   // v1.42: sonido de las etiquetas (por defecto, el de siempre)
   if (cfg.marca) Object.assign(P.MARCA, cfg.marca);
   SK = SKINS[cfg.skin || 'plana'];
   P.SAFE.on = !!cfg.zonaSegura; const PZ = cfg.pausas ? P.pausas(cfg.align, cfg.pausaMin ?? 0.4, cfg.pausaMax ?? 1.6) : [], WARP = PZ.length ? pausaWarp(PZ) : (t) => t;
@@ -5657,9 +5658,13 @@ P._limpiarFijos = () => { for (const k of Object.keys(FIJOS)) delete FIJOS[k]; }
   fade: (k, t, d) => k.noise(t, { dur: d + 0.3, color: 'brown', filter: 'lowpass', f: [[0, 600], [d + 0.3, 120]], gain: 0.12, a: d * 0.5, minor: true }),
  };
  // efectos con nombre para los bloques (consistencia entre episodios)
+ // v1.42 · SND_ETQ: 'clasico' (por defecto, igual que antes) · 'suave' (FX.etiqueta y el «ding» de FX.revelar a −10 dB) · 'silencio' (FX.etiqueta mudo).
+ //   El «tin» de siempre queda en FX.clave(k, t), para 3-4 momentos clave por vídeo. Los golpes (thud, destellos) no cambian.
+ let SND_ETQ = 'clasico'; const G10 = 0.316;
  const FX = {
   aparece: (k, t, f = 560) => k.play('pop', t, { f, gain: 0.5 }),
-  etiqueta: (k, t) => { k.play('pop', t, { f: 700, gain: 0.35, minor: true }); k.play('tick', t + 0.02, { gain: 0.25, minor: true }); },
+  etiqueta: (k, t) => { if (SND_ETQ === 'silencio') return; const g = SND_ETQ === 'suave' ? G10 : 1; k.play('pop', t, { f: 700, gain: 0.35 * g, minor: true }); k.play('tick', t + 0.02, { gain: 0.25 * g, minor: true }); },
+  clave: (k, t) => { k.play('pop', t, { f: 700, gain: 0.35, minor: true }); k.play('tick', t + 0.02, { gain: 0.25, minor: true }); },   // v1.42: el «tin» para los momentos clave
   flecha: (k, t, d = 0.4) => k.play('swish', t, { dur: d, gain: 0.35, minor: true }),
   tachado: (k, t) => { k.play('error', t, { f: 'A3', gain: 0.4 }); k.play('slap', t, { gain: 0.3, minor: true }); },
   correcto: (k, t) => k.play('success', t, { gain: 0.4 }),
@@ -5682,7 +5687,7 @@ P._limpiarFijos = () => { for (const k of Object.keys(FIJOS)) delete FIJOS[k]; }
   motor: (k, t, d, g = 1) => { k.tone(t, { f: 48, type: 'triangle', dur: d, gain: 0.05 * g, a: 0.3, hold: d * 0.8 }); for (let x = 0; x < d; x += 0.5) k.play('tick', t + x, { f: 2400, gain: 0.08 * g, minor: true }); },
   campo: (k, t, d = 1.2, g = 1) => { const R = H.rng(Math.round(t * 100)); for (let x = 0; x < d; x += 0.07) k.tone(t + x, { f: [523, 659, 784, 988, 1175][Math.floor(R() * 5)], dur: 0.5, gain: 0.02 * g, a: 0.02, filter: 'lowpass', f2: 2200, verb: 0.4, pan: R() * 1.2 - 0.6, minor: true }); k.noise(t, { dur: d, color: 'pink', filter: 'bandpass', f: 2400, q: 2, gain: 0.03 * g, a: d * 0.4 }); },
   escala: (k, t, d = 1) => { k.play('riser', t, { dur: d, gain: 0.35 }); k.tone(t + d, { f: [[0, 90], [0.4, 45]], dur: 0.6, gain: 0.25 }); },
-  revelar: (k, t) => { k.play('whoosh', t, { dur: 0.6, top: 2000, gain: 0.35, minor: true }); k.play('ding', t + 0.35, { f: 'C6', gain: 0.18, minor: true }); },
+  revelar: (k, t) => { k.play('whoosh', t, { dur: 0.6, top: 2000, gain: 0.35, minor: true }); k.play('ding', t + 0.35, { f: 'C6', gain: 0.18 * (SND_ETQ === 'clasico' ? 1 : G10), minor: true }); },
   puerta: (k, t) => { k.play('click', t, { gain: 0.7 }); k.play('thud', t + 0.03, { f: 160, gain: 0.25 }); k.noise(t + 0.05, { dur: 0.35, color: 'pink', filter: 'bandpass', f: 1200, q: 1, gain: 0.05, a: 0.05 }); },
   // v1.4 · aire y refrigeración
   ventilador: (k, t, d, g = 1, f = 300) => { k.noise(t, { dur: d, color: 'pink', filter: 'bandpass', f: [[0, f * 0.6], [Math.min(1.5, d * 0.3), f], [d, f]], q: 0.9, gain: 0.05 * g, a: Math.min(1.2, d * 0.3), hold: d * 0.7 }); },

diff --git a/PLANTILLA_ASOMBROTECA/nuevo_video/04_CODIGO/js/episodio.js b/PLANTILLA_ASOMBROTECA/nuevo_video/04_CODIGO/js/episodio.js
@@ -60,6 +60,7 @@
  const EP = PL.make({
   skin: 'plana',              // 'plana' | 'oscura'
   align: A, duration: DURATION, beats: B,
+  etiquetas: 'suave',         // v1.42: etiquetas casi mudas (−10 dB); el «tin» solo con FX.clave en 3-4 momentos clave
   keywords: ['Asombroteca'],  // palabras con recuadro de selección; ['palabra', t0, t1] limita el recuadro a un tramo
   capY: 300,
   ambience(k) { k.noise(0, { dur: DURATION, color: 'brown', filter: 'lowpass', f: 200, gain: 0.04, a: 1, hold: DURATION - 2 }); },

diff --git a/PLANTILLA_ASOMBROTECA/CAMBIOS_PLANTILLA.md b/PLANTILLA_ASOMBROTECA/CAMBIOS_PLANTILLA.md
@@ -69,3 +69,4 @@
 | 1.39 | 2026-11-13 | **Quitar tramos de la voz sin regenerar** (`[QUITAR] texto` en `03_GUION/tramos.txt`): el tramo se alinea igual (para no descuadrar los demás) y el montaje de la variante del gancho lo salta, cortando desde su inicio hasta el inicio del tramo siguiente (se conserva el silencio previo y entra el ataque del siguiente). Varios `[QUITAR]` seguidos no dejan migas de silencio (trozos < 0,08 s fuera). Los demás tramos se copian intactos (el QC de md5 por tramo sigue pasando). Requiere el gancho marcado (`[GANCHO X]`); no se puede quitar el último tramo. | Retrocompatible: sin `[QUITAR]`, `alinear.py` produce exactamente lo mismo. Pedido del usuario (vídeo del cocodrilo: 72,6 s → 65,5 s sin regenerar). |
 | 1.40 | 2026-11-14 | **Marca de la portada a una altura fija** (opcional): `producir.py PROYECTO portada … --marca-y 1850` (último argumento `MARCA_Y` de `tools/portada.js`). Sirve para bajar el dibujo casi hasta abajo y dejar solo una franja corta con la marca, fuera del dibujo. Con `--marca-y` el control del recorte 3:4 solo mira el texto (la marca queda a propósito fuera del recorte de la cuadrícula). Sin la opción, todo funciona igual que en la v1.30 (retrocompatible). Probado en el televisor de tubo. |
 | 1.41 | 2026-11-14 | **`[PAUSA]` justo después de un tramo `[QUITAR]`** (arreglo de `tools/alinear.py`): antes daba `KeyError` al montar la variante. Ahora la pausa se pasa al último tramo que queda antes del quitado y se coloca justo antes del siguiente tramo que se dice. Sin `[QUITAR]` seguido de `[PAUSA]`, la salida es idéntica (comprobado con el cocodrilo y el televisor de tubo: mismo resultado). Probado en el motor de la moto. |
+| 1.42 | 2026-11-15 | **El «tin» de las etiquetas, solo en los momentos clave.** Opción nueva de `PL.make`: `etiquetas: 'suave'` (cada `FX.etiqueta` y el «ding» de `FX.revelar` a −10 dB) o `'silencio'` (`FX.etiqueta` mudo). Efecto nuevo `FX.clave(k, t)`: el «tin» de siempre (pop de 700 Hz + tic), para 3-4 momentos clave por vídeo. Los golpes (thud, destellos) no cambian. Sin la opción, todo suena igual que en la v1.41 (retrocompatible: en la moto, el televisor y la olla los efectos y la música salen iguales a los de la v1.41; la diferencia máxima es de ~1e-7, el ruido de redondeo del render de audio, por debajo de −130 dB). `nuevo_video` ya trae `etiquetas: 'suave'`. Regla nueva en `GUIA_ESTILOS.md`. Respaldo en `respaldo_v1.41/`. Probado en «conservar alimentos» (de 24 «tin» a 4). |

diff --git a/PLANTILLA_ASOMBROTECA/GUIA_ESTILOS.md b/PLANTILLA_ASOMBROTECA/GUIA_ESTILOS.md
@@ -1,5 +1,12 @@
 # Guía de estilos y guion · PLANTILLA ASOMBROTECA v1.34
 
+> **v1.42 · Sonido de las etiquetas: el «tin» solo en los momentos clave (regla para TODOS los vídeos nuevos):**
+> 1. **Etiquetas normales casi mudas.** En `PL.make` va `etiquetas: 'suave'`: cada `FX.etiqueta` suena a −10 dB (o `etiquetas: 'silencio'`, sin sonido). El «ding» de `FX.revelar` también baja −10 dB.
+> 2. **El «tin» de siempre, solo 3-4 veces por vídeo**, con `FX.clave(k, t)`: la revelación más fuerte y los números o pasos importantes (p. ej. «1 · LA SAL», «2 · …»). Nunca en cada etiqueta.
+> 3. **Los golpes fuertes no cambian** (explosiones, destellos, `thud`, `golpeSordo`): esos sí funcionan.
+> 4. Antes de entregar, contar los `FX.clave` del episodio (3-4) y decirlo en el resumen.
+> 5. Los episodios anteriores a la v1.42 suenan igual que siempre (sin `etiquetas`, el sonido es el clásico).
+
 > **v1.34 · Lo que funcionó en los 3 vídeos más vistos del canal (manda sobre todo lo demás):**
 > *Avión sin motores (303 mil) · submarino (235 mil) · rayo en un avión (46 mil).*
 > 1. **Tema: peligro en un medio de transporte**, tipo «¿Qué pasa si…?»: «¿Qué pasa si se apagan los motores de un avión?», «¿Qué pasa si un submarino se hunde demasiado?», «¿Qué pasa si un rayo cae en tu avión?». Otros medios: barco, tren, ascensor, teleférico, coche, cohete.

diff --git a/PLANTILLA_ASOMBROTECA/INSTRUCCIONES_PLANTILLA.md b/PLANTILLA_ASOMBROTECA/INSTRUCCIONES_PLANTILLA.md
@@ -1045,3 +1045,9 @@ Las manos de los vídeos salen ahora de la **hoja de manos ilustradas** del cana
 - En `03_GUION/tramos.txt` se puede escribir un tramo `[QUITAR] …` y, en la línea siguiente, `[PAUSA 0.6]`: la pausa queda entre el último tramo dicho antes del quitado y el siguiente tramo que se dice.
 - Ejemplo (moto): `[QUITAR] Ahora, el dato.` + `[PAUSA 0.6]` antes de «A unas seis mil vueltas por minuto…».
 - Sin esa combinación, `alinear.py` funciona igual que en la v1.40.
+
+## v1.42 · Sonido de las etiquetas
+
+- `PL.make({ …, etiquetas: 'suave' })`: `FX.etiqueta` suena a −10 dB (y el «ding» de `FX.revelar` también). `etiquetas: 'silencio'`: `FX.etiqueta` no suena. Sin la opción (episodios viejos), el sonido es el de siempre.
+- `FX.clave(k, t)`: el «tin» de siempre (pop de 700 Hz + tic). Úsalo solo en 3-4 momentos clave por vídeo (la revelación, los números o pasos importantes).
+- Los golpes (`thud`, `FX.golpeSordo`, destellos) no cambian.
